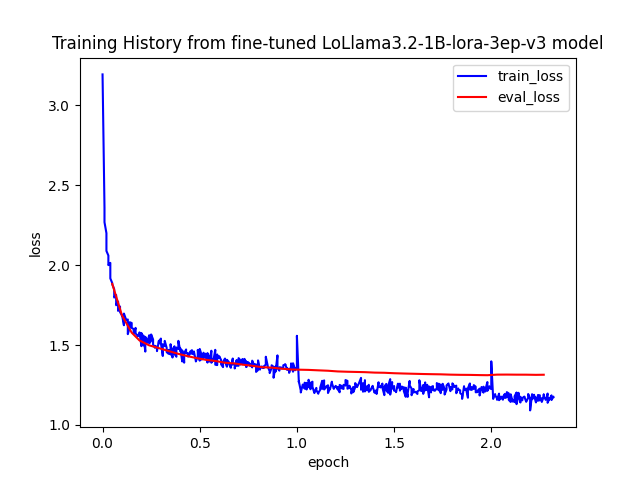
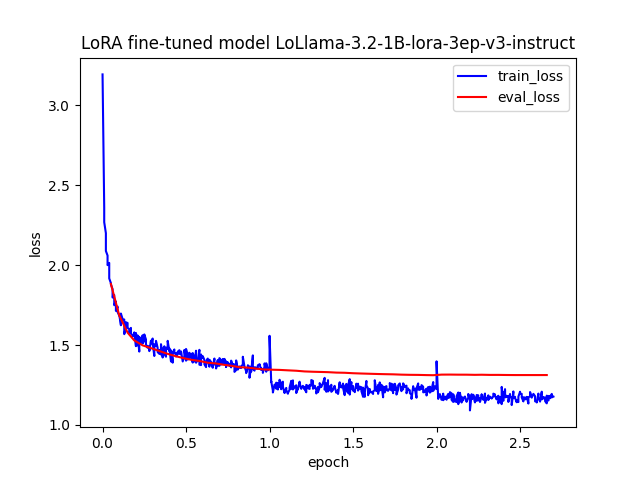
Update training plot script and refine project documentation
- Changed input JSONL file from instruct-ft-1.jsonl to instruct-ft-2.jsonl for updated training data.
- Added additional plots for training loss and evaluation loss with appropriate titles and saved as temp1.png and temp2.png.
- Enhanced project documentation with clearer descriptions of corpus building, fine-tuning processes, and follow-up plans.
- Included examples of instruct tuning datasets for factual, strategic, and role-based questions.
- Adjusted training configurations and clarified the purpose of embedding model development for League of Legends champions.

diff --git a/plot_training_2.py b/plot_training_2.py
@@ -1,7 +1,7 @@
 import json
 import matplotlib.pyplot as plt
 
-with open("./instruct-ft-1.jsonl", "r") as f:
+with open("./instruct-ft-2.jsonl", "r") as f:
     lines = f.readlines()
 
 eval_history : list[dict] = list()
@@ -15,11 +15,22 @@ for line in lines:
         eval_history.append(data)
     else:
         train_history.append(data)
-        
+
+title : str = "LoRA fine-tuned model LoLlama-3.2-1B-lora-3ep-v3-instruct"
+
 plt.plot([d["epoch"] for d in train_history], [d["mean_token_accuracy"] for d in train_history], "-b", label="train_mean_token_accuracy")
 plt.plot([d["epoch"] for d in eval_history], [d["eval_mean_token_accuracy"] for d in eval_history], "-r", label="eval_mean_token_accuracy")
 plt.xlabel("epoch")
 plt.ylabel("mean_token_accuracy")
 plt.legend()
-plt.title("Training History from base model llama3.2:1B")
-plt.savefig("temp.png")
+plt.title(title)
+plt.savefig("temp1.png")
+
+plt.clf()
+plt.plot([d["epoch"] for d in train_history], [d["loss"] for d in train_history], "-b", label="train_loss")
+plt.plot([d["epoch"] for d in eval_history], [d["eval_loss"] for d in eval_history], "-r", label="eval_loss")
+plt.xlabel("epoch")
+plt.ylabel("loss")
+plt.legend()
+plt.title(title)
+plt.savefig("temp2.png")

diff --git a/prompt_ai_assistant.md b/prompt_ai_assistant.md
@@ -1,28 +1,29 @@
 Here is an overview of a project that I'm building. I'm seeking your advice and critical mind.
-Please everytime try to be critical and only validate facts and claims if you deem it relevant and strongly founded
+Please everytime try to be critical and only validate facts and claims if you deem it relevant and strongly founded on data and relevant observations
 
-My goal is to build an embedding model for League of Legends champions.
-As I was browing through the MTEB leaderboard I noticed that all top models were decoder-based model, i.e. model that "extract" only the embedding layers of decoder-based LLMs
+My goal is to build an embedding model for League of Legends champions (i.e. champion names).
+As I was browing through the MTEB leaderboard I noticed that a vast majority of the top models were decoder-based model, i.e. model that "extract" only the embedding layers of decoder-based LLMs
 
 # Corpus building
 So in order to have a strong embedding model about League of Legends I've built a corpus containing a total of 1,907,871 tokens (1,526,364 for training and 381,507 for validation). This dataset contains the following : 
 - Almost all the content of the official League of Legend Wiki (Champions, items, runes, epic monsters, etc...)
 - Match up and gameplay strategies tailored on each champions from a coaching website (mobalytics)
-- Content about genral League of Legends rationales from a League of Legends specific forum
+- Content about genral League of Legends rationales from a League of Legends specific forum. Only some specific content.
 - Data Augmentation
     - Paraphrasing of all the previous entries
     - Champion card : descrip each champions kit and its strategical synergies, strengths and weaknesses
     - Champion match up : from the data of mobalytics I've generated some match up strategies to specifically play against said champion strenghts/weaknesses
     - Champion role : from the data of the wiki, I generated a detailed analysis of the champions kit in order to dertemine where the champion supposed to be played
+When building this corpus I made sure to take only non patch dependent data. For example I focus and the key mechanics of champions rather than knowing the exact mana cost of the abilities that might be suggest to change.
+Also when performing paraphrasing I made sure to only do it once for each data entry and using a much more bigger model (Claude-3.5-Haiku) so the phrasing would be much more different and some better knowledge would be outputed.
 
 # Causal Language Modeling fine-tuning
-In order to train an LLM on this task I've chosen to fine-tune using LoRA the llama-3.2-1B model from meta-ai on the Causal Language Modeling task (CLM). Please note that the original model is **not an instruct model**. After some trials and errors I came up with this training configuration : 
+In order to train an LLM on this task I've chosen to fine-tune using LoRA the llama-3.2-1B model and tokenizer from meta-ai on the Causal Language Modeling task (CLM). Please note that the original model is **not an instruct model**. After some trials and errors I came up with this training configuration : 
 For LoRA :
 ```python
 lora_config = LoraConfig(
     r = 8,
     lora_alpha=16,
-    # target_modules = ["q_proj", "k_proj", "v_proj", "o_proj"],
     target_modules = ["q_proj", "k_proj", "v_proj", "o_proj", "gate_proj", "down_proj", "up_proj"],
     lora_dropout=0.05,
     bias="none",
@@ -36,7 +37,7 @@ trainings_args = TrainingArguments(
     output_dir=f"./results/{model_name}",
     eval_strategy="epoch",
     learning_rate=1e-5,
-    num_train_epochs=epochs,
+    num_train_epochs=3, #After testing it was the best epoch value before overfitting
     weight_decay=0.01,
     push_to_hub=True,
     hub_token=get_hf_token("write"),
@@ -47,10 +48,67 @@ trainings_args = TrainingArguments(
     gradient_accumulation_steps=4  # Accumulate gradients to simulate larger batch
 )
 ```
+# Instruct tuning corpus building
+Afterward I then created an instruct corpus of 1.7 million traning tokens (2.1 millions totals) that is made to instruct the fine-tuned model to better retrieve data from his knowledge accumulated during CLM fine-tuning, better chatting behavior and better reasoning behavior. These QA pairs were generated using a way bigger model (Claude-3.5-Haiku) so that the reasoning could add additional knowledge.
+I've constructed the following dataset with 3 different type of instruct tuning :
+- factual instruct : basic factual question answer ranging from easy to hard difficulty. The whole 1.9 million CLM pre-training corpus is there covered
+- strategic instruct : some QA pairs that requires reasoning on the strategic aspects of the game (champion mechanics/counter strategies, items and runes)
+- role istruct : some QA pairs that requires reasoning on the role aspec and the purpose of the champion playstyle
+Here is a sample from each type there : 
+factual :
+```json
+[ { "role": "user", "content": "How does Teemo's Toxic Shot ability modify his basic attacks?" }, { "role": "assistant", "content": "Teemo's Toxic Shot transforms his basic attacks with poison mechanics:\n\n- Adds bonus magic damage on hit\n- Inflicts continuous magic damage over time\n- Subsequent attacks can refresh the poison duration\n\nThis creates sustained damage potential through each attack." } ]
+```
 
-# Follow-up plan
+strategic :
+```json
+[ { "role": "user", "content": "As a top lane player facing a Riven with high mobility, what specific strategies can you employ to consistently interrupt her engage potential and minimize her trading effectiveness?" }, { "role": "assistant", "content": "To counter Riven's mobility and trading potential, implement these strategic approaches:\n\n1. Champion Selection: Choose champions with reliable point-and-click crowd control like Pantheon or Renekton. Their targeted abilities can consistently interrupt Riven's Broken Wings and Valor mobility skills.\n\n2. Positioning: Maintain a positioning just outside her Broken Wings range, forcing her to overextend if she wants to engage. This creates opportunities to punish her aggressive attempts.\n\n3. Ability Tracking: Carefully monitor her Valor (E) shield cooldown. When it's unavailable, she becomes significantly more vulnerable to trades and all-ins.\n\n4. Itemization: Rush defensive items like Plated Steelcaps to reduce her auto-attack damage and consider Silvermere Dawn to cleanse her crowd control, neutralizing her burst potential.\n\nBy combining these approaches, you can systematically reduce Riven's lane dominance and create consistent counterplay opportunities." } ]
+```
+
+role :
+```json
+[ { "role": "user", "content": "How do different mythic item choices and secondary item builds fundamentally alter Heimerdinger's mid-lane effectiveness, and what situational factors should players consider when constructing their optimal item path?" }, { "role": "assistant", "content": "Mythic Item Optimization Strategies:\n\n1. Liandry's Anguish:\n- Maximizes turret damage over time\n- Ideal against tanky compositions\n- Synergizes with area control playstyle\n\n2. Night Harvester:\n- Provides burst potential\n- Enhances pick-off capabilities\n- Better against squishy, mobile compositions\n\n3. Cosmic Drive:\n- Increases mobility and ability haste\n- Supports kiting and repositioning\n- Beneficial in extended team fights\n\nSecondary Considerations:\n- Zhonya's Hourglass for survivability\n- Morellonomicon against healing-heavy teams\n- Void Staff for magic resistance penetration\n\nSituational Adaptation Factors:\n- Enemy team composition\n- Current game state\n- Personal playstyle preferences\n\nOptimal itemization requires dynamic decision-making, transforming Heimerdinger from a lane specialist to a versatile team fight controller." } ]
+```
+
+# Instruct tuning fine-tuning
+With this fresh new dataset I then perform full fine-tuning on the merged CLM LoRA fine-tuned model with the base model. I've also tried to directly fine-tune the base llama3.2:1B model just to do some test.
+Here is the training set-up : 
+```py
+training_args = SFTConfig(
+    output_dir="./results/LoLlama-3.2-1B-lora-3ep-v3-instruct",
+    num_train_epochs=3,
+    per_device_train_batch_size=2, 
+    per_device_eval_batch_size=2, 
+    gradient_accumulation_steps=8,
+    learning_rate=2e-5,
+    logging_steps=5,
+    packing=False,
+    gradient_checkpointing=True,
+    bf16=torch.cuda.is_bf16_supported(),
+    fp16=not torch.cuda.is_bf16_supported(),
+    evaluation_strategy="steps",
+    eval_steps=50,
+    save_steps=50,
+    load_best_model_at_end=True,
+    metric_for_best_model="eval_loss",
+    greater_is_better=False,
+)
+
+trainer = SFTTrainer(
+    model=model,
+    tokenizer=tokenizer,
+    args=training_args,
+    train_dataset=train_dataset,
+    eval_dataset=validation_dataset,
+)
+```
+And the tokenizer here is the tokenizer from the llama3.2:1B **instruct** model to have the chat template.
+
+In the attached file you will see respectively the evolution of loss and average token accuracy from the fine-tuned model and the base model. From what I can observe is that the fine-tuned model learns and perform way better than the llama3.2:1B model at the beginning of the training which strongly validates the fact that the previous training actually worked.
+Please note that this model is still under training and I didn't do any "proper" evaluation benchmarks.
+
+# Follow-up plan (to be refined)
 After a session of brainstorming with an AI assistant I came up with the following plan : 
-1. Generate a QA instruct dataset about the knowledge of all the 1.9 million tokens of my corpus
-2. Instruct fine tune my pre-trained model on this QA dataset
-3. Extract the embedding layers
-4. Fine-tune the embedding layers on a triplet dataset (anchor, positive, negative) where the anchor and positive are both champions name that play the same role (Toplane, Jungle, Midlane, ADC or Support) or have the same class (Marksman, Assassin, Juggernaut, Warder, ...). This final training is inspired by the way that "traditional" sentence-transformers models are trained
+1. Extract the embedding layers of the decoder just before the prediction head.
+2. Fine-tune the embedding layers on a triplet dataset (anchor, positive, negative) where the anchor and positive are both champions name that play the same role (Toplane, Jungle, Midlane, ADC or Support) or have the same class (Marksman, Assassin, Juggernaut, Warder, ...) and the negative is a champion that doesn't have a similar class and/or role with the anchor. This final training is inspired by the way that "traditional" sentence-transformers models are trained. The goal here is to build an embedding model solely for the champion names in order to build a draft analysis tool. I was also thinking of building synthetic vectors representing caracteristic of champions using my knowledge. Train model on it then generate another set of triplet using cosine-similarity shenanigans
+3. Benchmark the embedding model. (Clustering, PCA visualisation and so on...)
